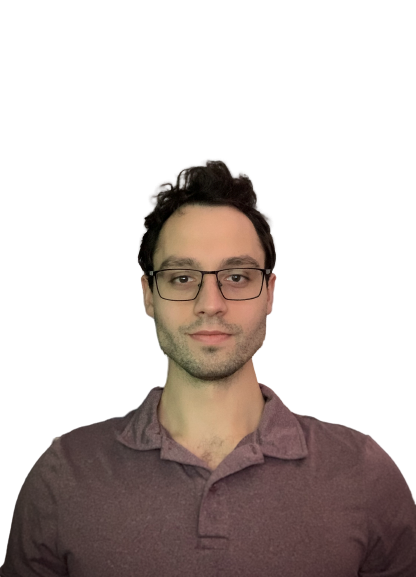
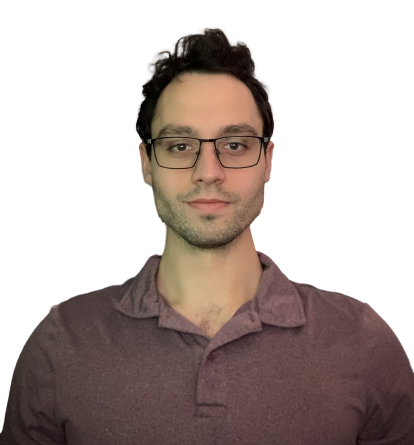
Profile crop

diff --git a/content/_index.md b/content/_index.md
@@ -5,7 +5,7 @@ action_type: text
 description: I am a cultural evolutionist in the [Culture, Cognition, and Coevolution Lab](https://coevolution.fas.harvard.edu/) at Harvard University. Though my interests are broad, they revolve around the evolution of institutions, human social-learning, and the fascinating relationship between culture and minds. I am particularly interested in applying cultural evolution for policy, multi-agent reinforcement learning.
 image_left: true
 images:
-- img/resize_profile.png
+- img/profile.png
 show_action_link: false
 show_social_links: true
 subtitle: CULTURAL EVOLUTION, INSTITUTIONS, AND MINDS
